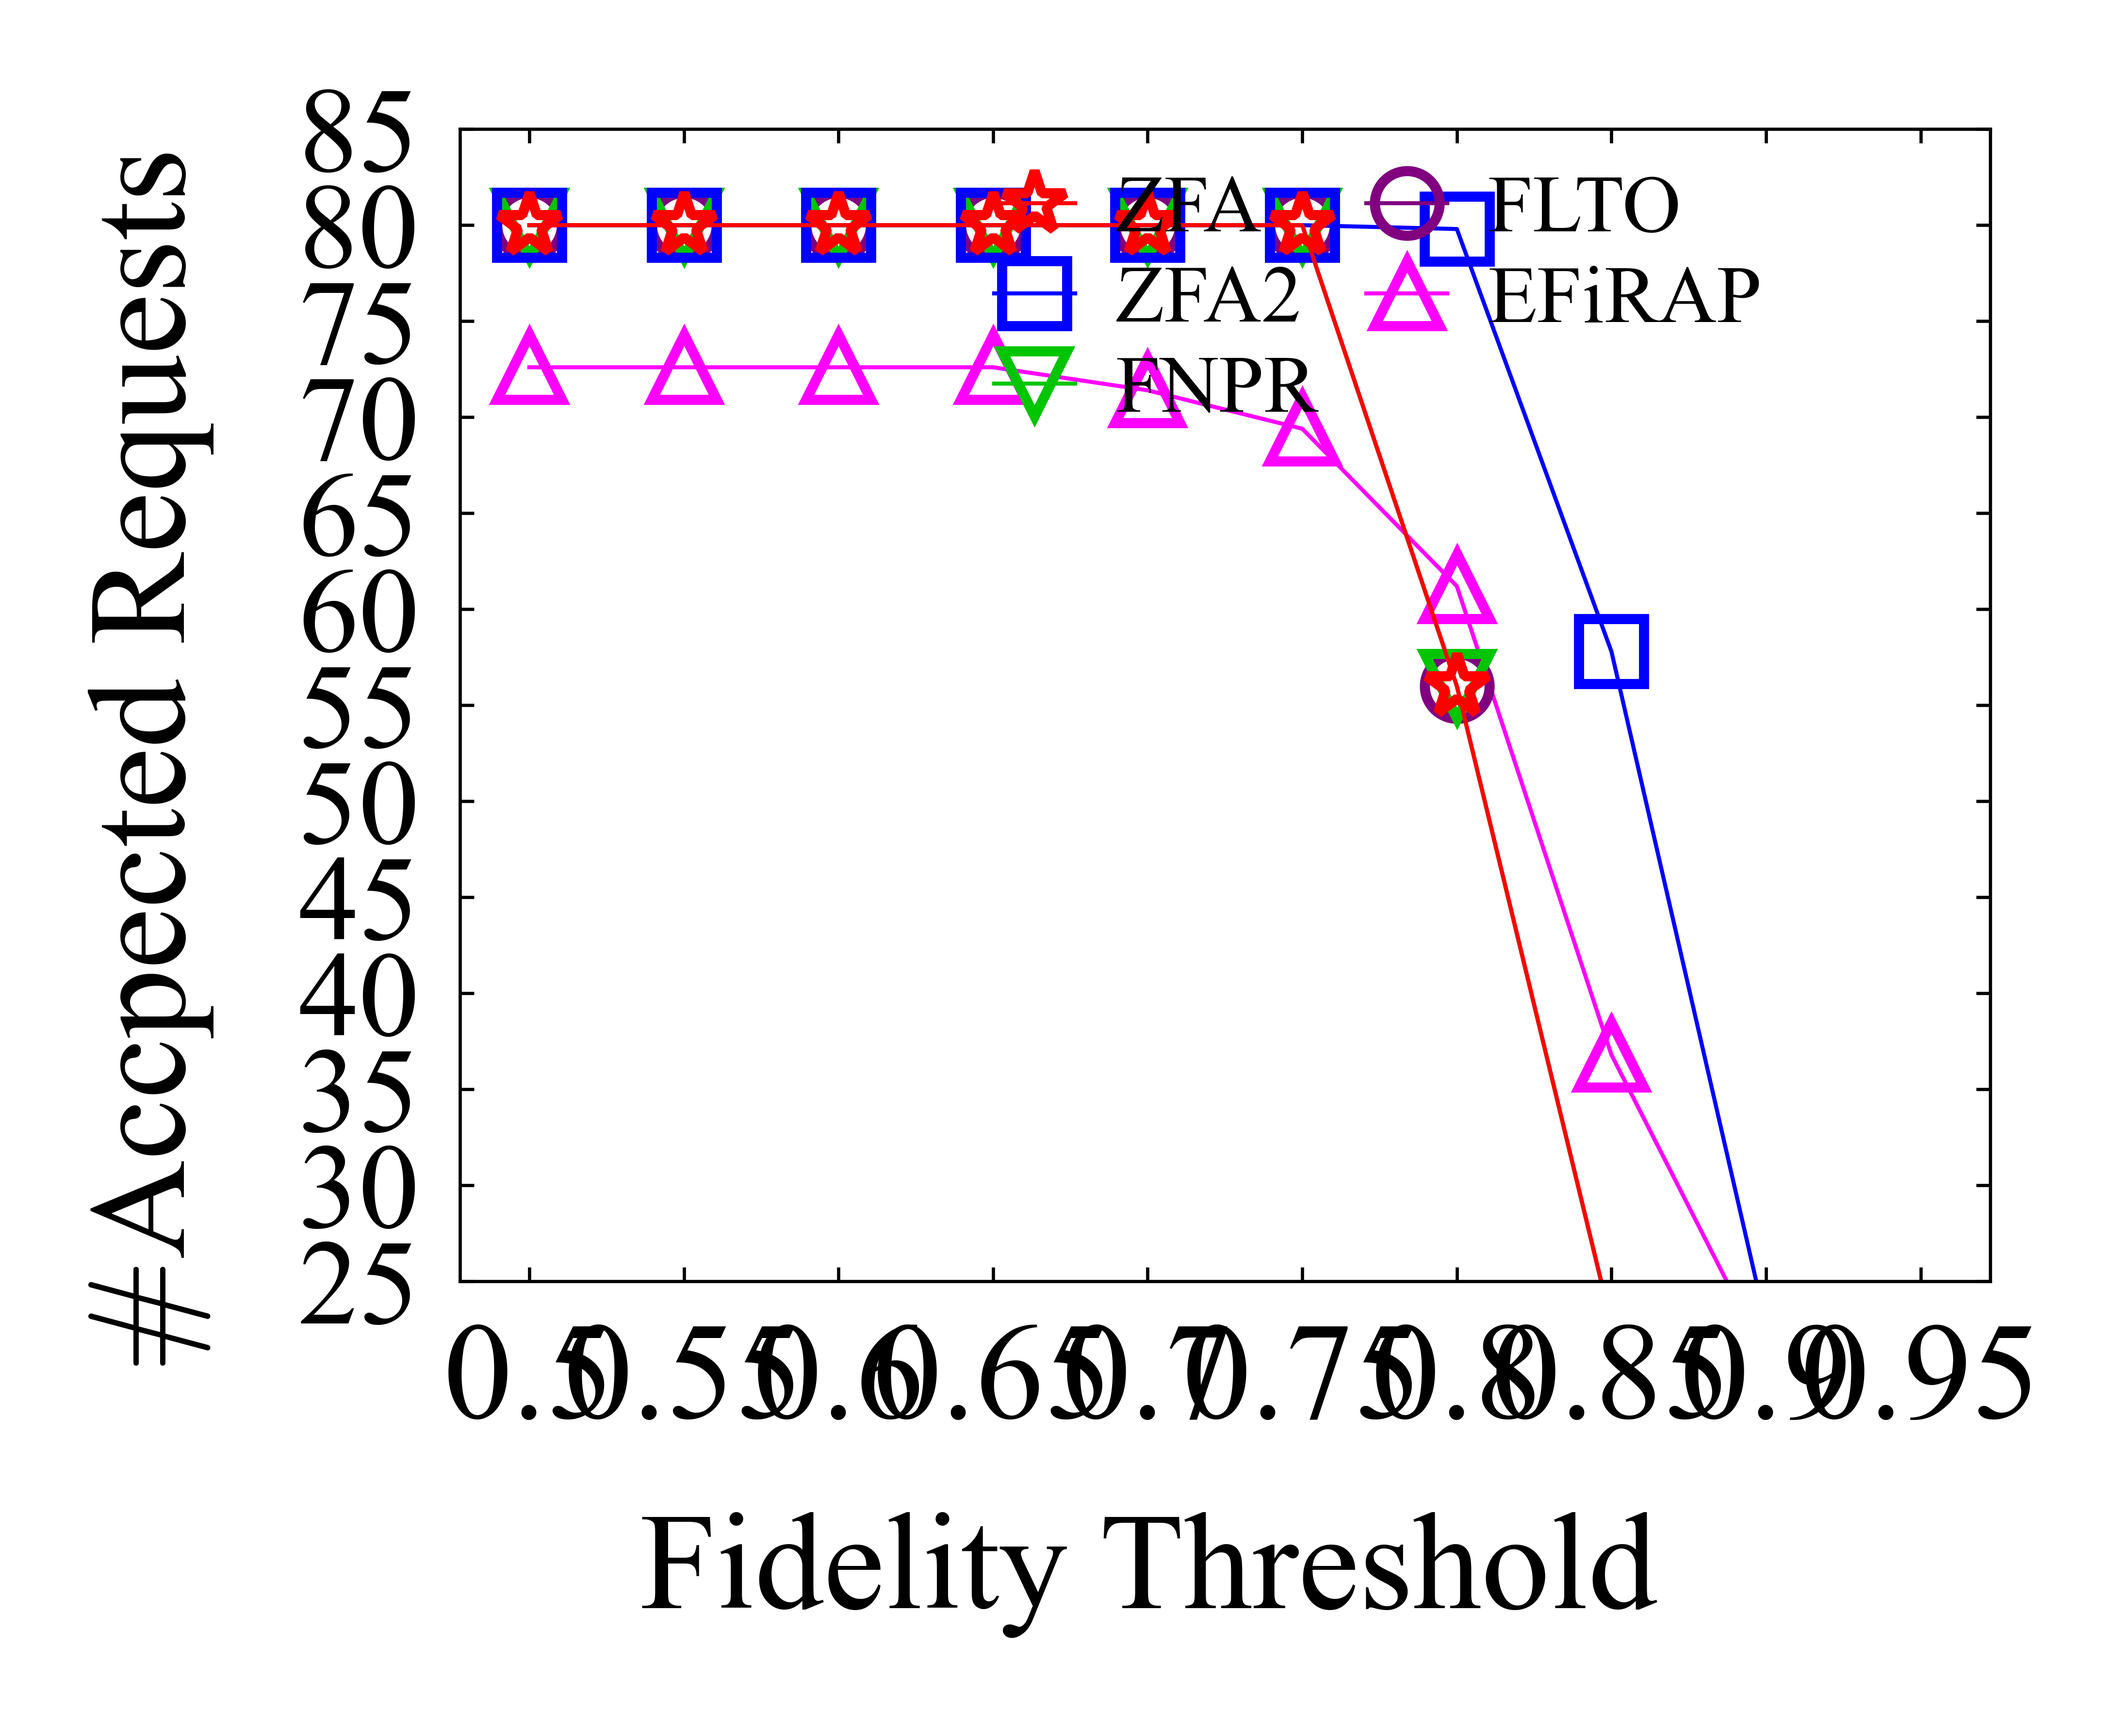
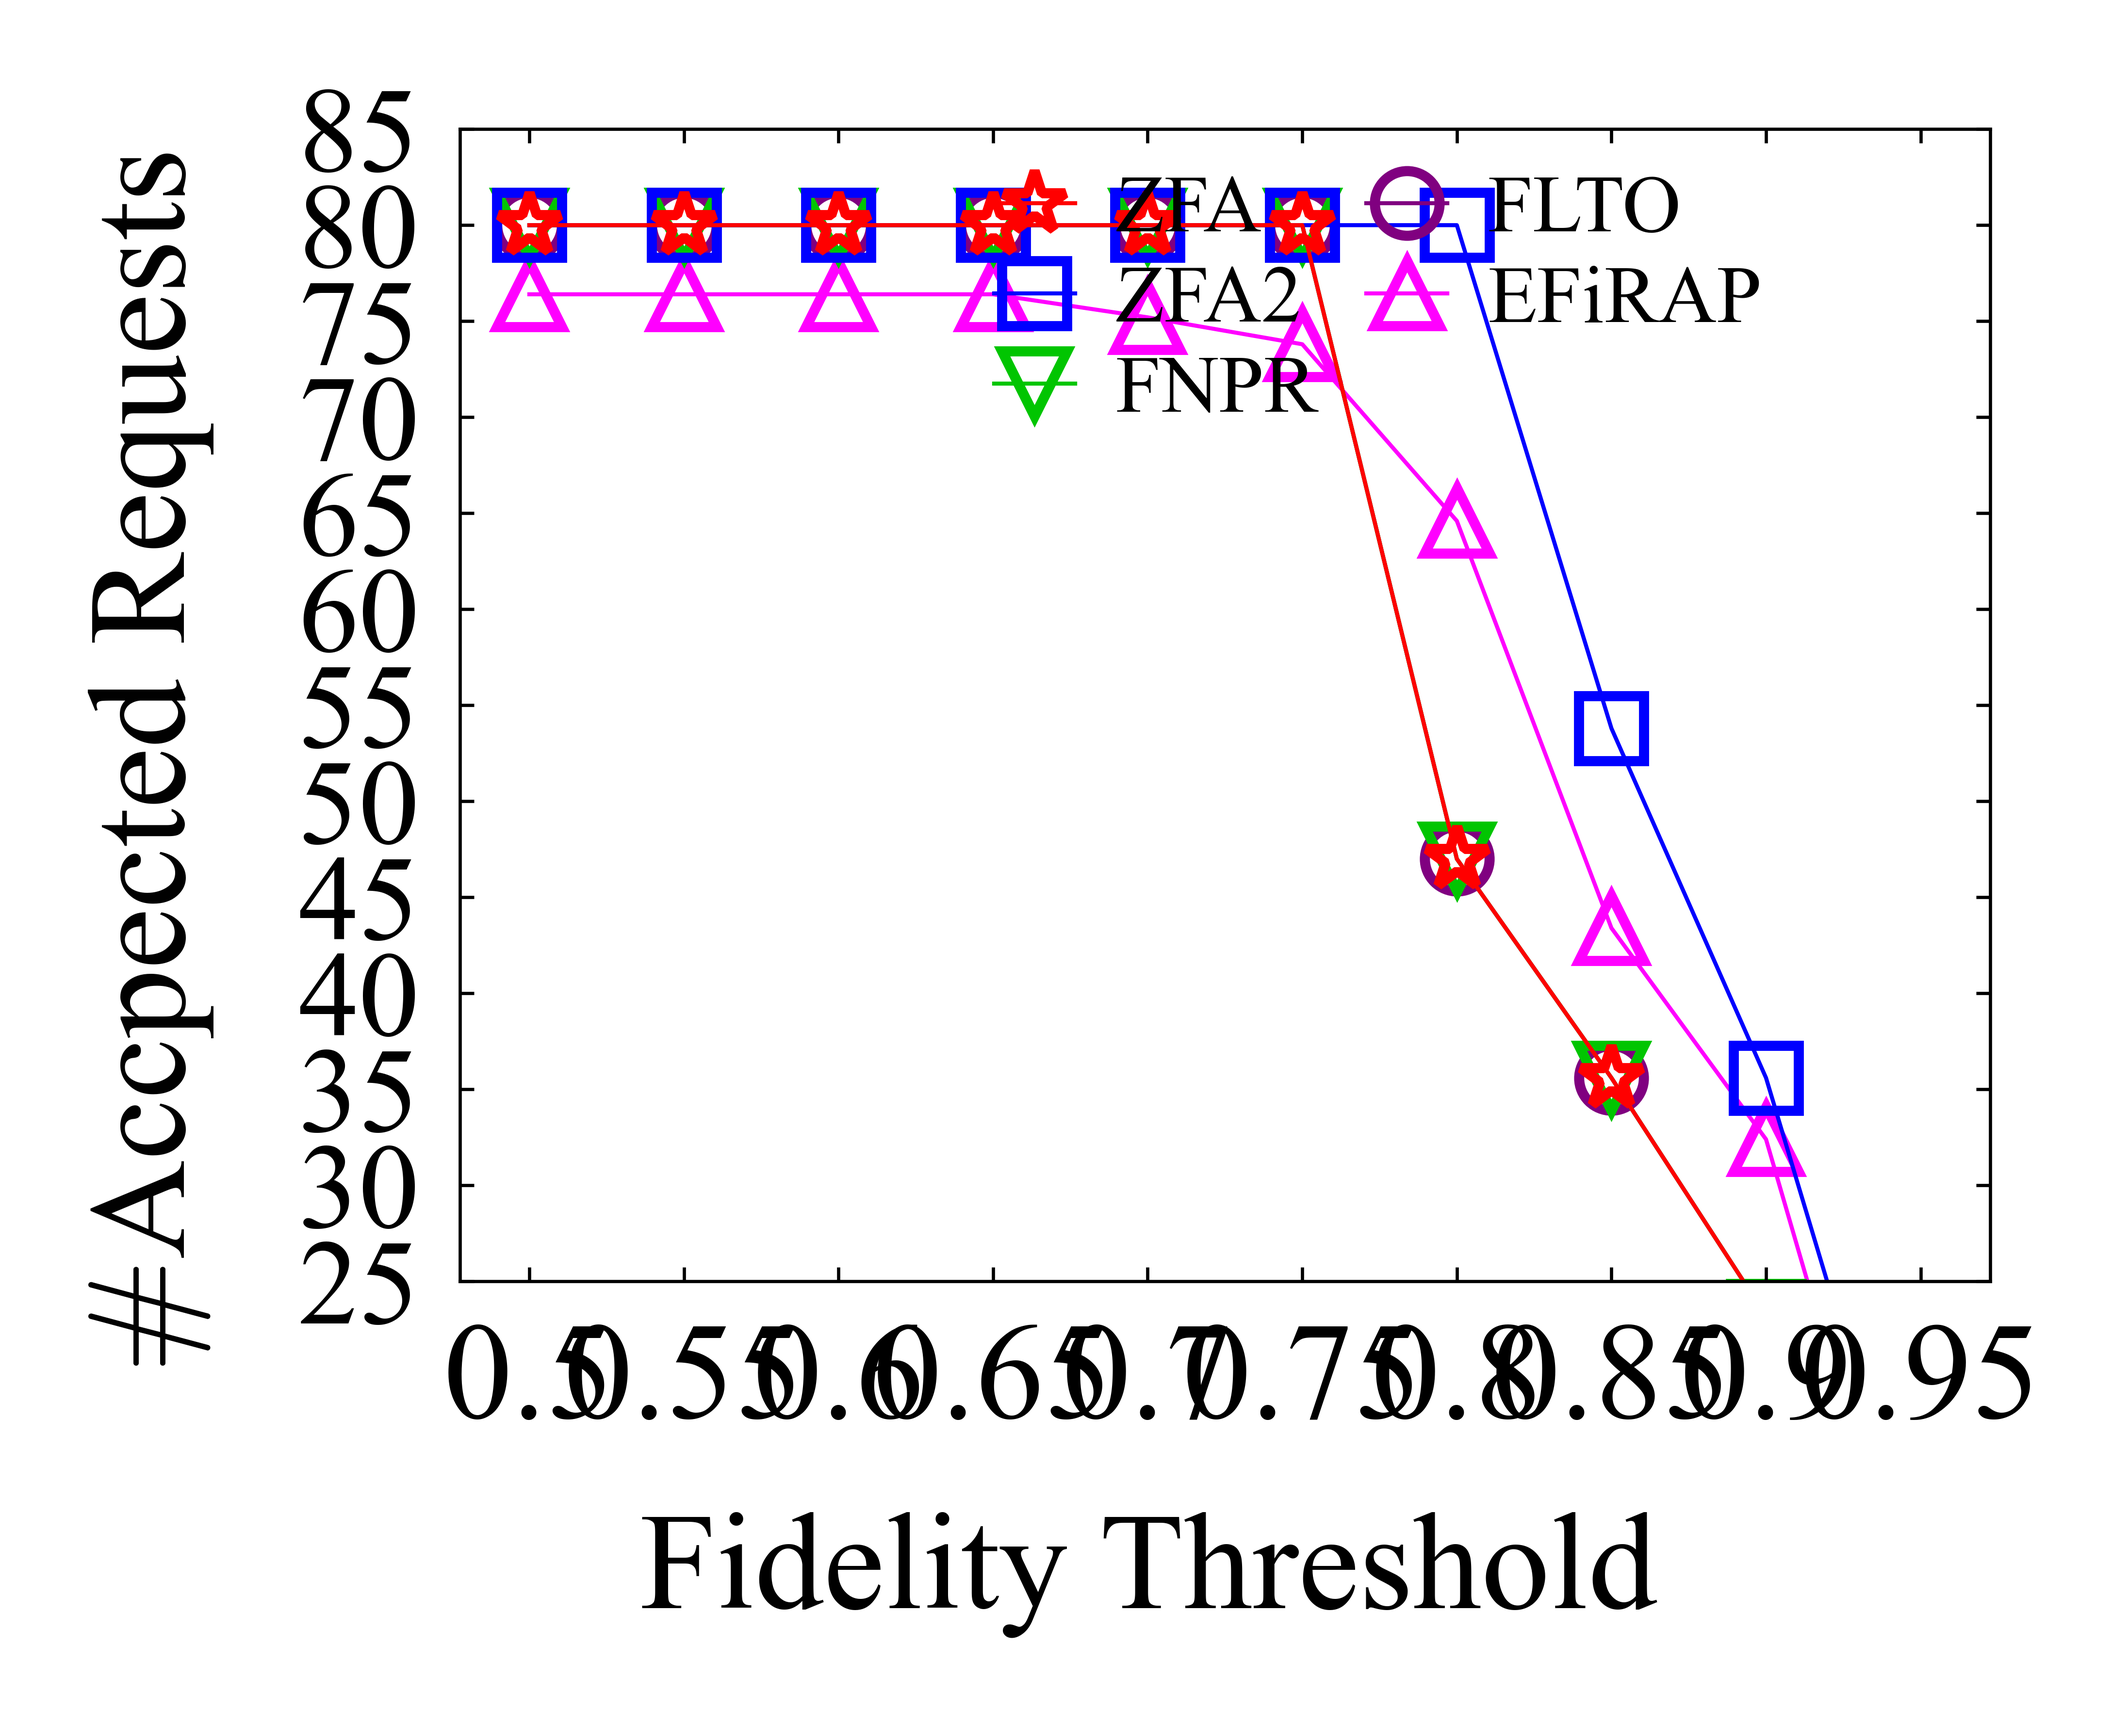
adjust exp

diff --git a/src/main.cpp b/src/main.cpp
@@ -386,11 +386,11 @@ vector<SDpair> generate_requests_purify_needed(Graph &graph, int requests_cnt, i
 
 // Build the default workload from physical feasibility classes, never from an
 // algorithm's output.  "common" requests already meet the threshold on a
-// shortest 1--2-hop path.  "purification" requests miss the threshold without
-// purification but meet it after at most three pumping rounds per link.
-// Keeping most requests in the common class prevents the all-zero workload,
-// while the purification class supplies the pressure needed to distinguish
-// purification-aware algorithms.
+// shortest 1--2-hop path and are split into lower- and higher-fidelity strata.
+// "purification" requests miss the threshold without purification but meet it
+// after at most three pumping rounds per link.  Keeping most requests in the
+// common class prevents the all-zero workload, while its fidelity strata give
+// fidelity-aware algorithms a heterogeneous (but still shared) workload.
 vector<SDpair> generate_stratified_requests(
     Graph &graph,
     int requests_cnt,
@@ -477,7 +477,7 @@ vector<SDpair> generate_stratified_requests(
             pass_tao(left_fidelity), pass_tao(right_fidelity));
     };
 
-    vector<SDpair> common_candidates;
+    vector<pair<double, SDpair>> common_candidates_by_fidelity;
     vector<SDpair> purification_candidates;
     map<int, array<int, 3>> diagnostics;
 
@@ -500,8 +500,10 @@ vector<SDpair> generate_stratified_requests(
             diagnostics[hops][0]++;
 
             if(base_fidelity >= threshold) {
-                common_candidates.push_back({source, destination});
-                common_candidates.push_back({destination, source});
+                common_candidates_by_fidelity.push_back(
+                    {base_fidelity, {source, destination}});
+                common_candidates_by_fidelity.push_back(
+                    {base_fidelity, {destination, source}});
                 diagnostics[hops][1]++;
                 continue;
             }
@@ -523,13 +525,36 @@ vector<SDpair> generate_stratified_requests(
         }
     }
 
+    // Use a topology-dependent median instead of a hand-tuned fidelity
+    // boundary.  This keeps both common strata populated when threshold or
+    // link-fidelity settings change.
+    sort(
+        common_candidates_by_fidelity.begin(),
+        common_candidates_by_fidelity.end(),
+        [](const pair<double, SDpair>& left,
+           const pair<double, SDpair>& right) {
+            return left.first < right.first;
+        });
+    vector<SDpair> marginal_common_candidates;
+    vector<SDpair> high_common_candidates;
+    const int common_split =
+        (int)common_candidates_by_fidelity.size() / 2;
+    for(int i = 0; i < (int)common_candidates_by_fidelity.size(); ++i) {
+        if(i < common_split)
+            marginal_common_candidates.push_back(
+                common_candidates_by_fidelity[i].second);
+        else
+            high_common_candidates.push_back(
+                common_candidates_by_fidelity[i].second);
+    }
+
     if(purification_fraction < 0.0) purification_fraction = 0.0;
     if(purification_fraction > 1.0) purification_fraction = 1.0;
     int purification_target = (int)lround(
         requests_cnt * purification_fraction);
     int common_target = requests_cnt - purification_target;
 
-    if(common_candidates.empty()) {
+    if(common_candidates_by_fidelity.empty()) {
         cerr << "[request_mix] WARNING: common-feasible pool is empty" << endl;
         purification_target = requests_cnt;
         common_target = 0;
@@ -540,13 +565,27 @@ vector<SDpair> generate_stratified_requests(
         common_target = requests_cnt;
         purification_target = 0;
     }
-    if(common_candidates.empty() && purification_candidates.empty()) {
+    if(common_candidates_by_fidelity.empty()
+       && purification_candidates.empty()) {
         cerr << "[request_mix] ERROR: no physically feasible 1--2-hop requests"
              << endl;
         return {};
     }
+    int high_common_target = common_target / 2;
+    int marginal_common_target = common_target - high_common_target;
+    if(marginal_common_candidates.empty()) {
+        high_common_target = common_target;
+        marginal_common_target = 0;
+    }
+    if(high_common_candidates.empty()) {
+        marginal_common_target = common_target;
+        high_common_target = 0;
+    }
     const double effective_purification_fraction = requests_cnt > 0
         ? (double)purification_target / requests_cnt
+        : 0.0;
+    const double effective_high_common_fraction = requests_cnt > 0
+        ? (double)high_common_target / requests_cnt
         : 0.0;
 
     random_device random_source;
@@ -569,11 +608,20 @@ vector<SDpair> generate_stratified_requests(
         }
     };
 
-    vector<SDpair> common_requests;
+    vector<SDpair> marginal_common_requests;
+    vector<SDpair> high_common_requests;
     vector<SDpair> purification_requests;
-    common_requests.reserve(common_target);
+    marginal_common_requests.reserve(marginal_common_target);
+    high_common_requests.reserve(high_common_target);
     purification_requests.reserve(purification_target);
-    append_repeated(common_candidates, common_target, common_requests);
+    append_repeated(
+        marginal_common_candidates,
+        marginal_common_target,
+        marginal_common_requests);
+    append_repeated(
+        high_common_candidates,
+        high_common_target,
+        high_common_requests);
     append_repeated(
         purification_candidates, purification_target,
         purification_requests);
@@ -583,7 +631,9 @@ vector<SDpair> generate_stratified_requests(
     // composition instead of depending on one global shuffle.
     vector<SDpair> requests;
     requests.reserve(requests_cnt);
-    int common_position = 0, purification_position = 0;
+    int marginal_common_position = 0;
+    int high_common_position = 0;
+    int purification_position = 0;
     while((int)requests.size() < requests_cnt) {
         const int block_size = min(10, requests_cnt - (int)requests.size());
         const int prefix_end = (int)requests.size() + block_size;
@@ -594,12 +644,23 @@ vector<SDpair> generate_stratified_requests(
         block_purification = min(
             block_purification,
             (int)purification_requests.size() - purification_position);
-        const int block_common = block_size - block_purification;
+        const int desired_high_common = (int)lround(
+            prefix_end * effective_high_common_fraction);
+        int block_high_common =
+            desired_high_common - high_common_position;
+        block_high_common = min(
+            block_high_common,
+            (int)high_common_requests.size() - high_common_position);
+        const int block_marginal_common =
+            block_size - block_purification - block_high_common;
 
         vector<SDpair> block;
         block.reserve(block_size);
-        for(int i = 0; i < block_common; ++i)
-            block.push_back(common_requests[common_position++]);
+        for(int i = 0; i < block_marginal_common; ++i)
+            block.push_back(
+                marginal_common_requests[marginal_common_position++]);
+        for(int i = 0; i < block_high_common; ++i)
+            block.push_back(high_common_requests[high_common_position++]);
         for(int i = 0; i < block_purification; ++i)
             block.push_back(
                 purification_requests[purification_position++]);
@@ -610,7 +671,20 @@ vector<SDpair> generate_stratified_requests(
     cerr << "[request_mix] threshold=" << threshold
          << " T=" << T << " tao=" << tao
          << " | selected common=" << common_target
+         << " (marginal=" << marginal_common_target
+         << ", high=" << high_common_target << ")"
          << " purification=" << purification_target << endl;
+    if(!common_candidates_by_fidelity.empty()) {
+        const double minimum_common_fidelity =
+            common_candidates_by_fidelity.front().first;
+        const double median_common_fidelity =
+            common_candidates_by_fidelity[common_split].first;
+        const double maximum_common_fidelity =
+            common_candidates_by_fidelity.back().first;
+        cerr << "  common fidelity range=" << minimum_common_fidelity
+             << " ... " << median_common_fidelity
+             << " ... " << maximum_common_fidelity << endl;
+    }
     for(const auto& [hops, count] : diagnostics) {
         cerr << "  hop=" << hops
              << " candidates=" << count[0]

diff --git a/plot/ChartGenerator.py b/plot/ChartGenerator.py
@@ -151,7 +151,7 @@ class ChartGenerator:
 
     _Y_INTERVALS = {
         'fidelity_gain':{
-            'request_cnt': (40, 130, 5, 2), 'tao': (30, 60, 5, 2),
+            'request_cnt': (30, 123, 10, 3), 'tao': (30, 60, 5, 2),
             'time_limit': (30, 55, 5, 1), 'avg_memory': (0, 30, 5, 2),
             'min_fidelity': (23, 63, 5, 1), 'fidelity_threshold': (10, 30, 5, 2),
             'swap_prob': (30, 70, 5, 2), 'entangle_time': "auto",
